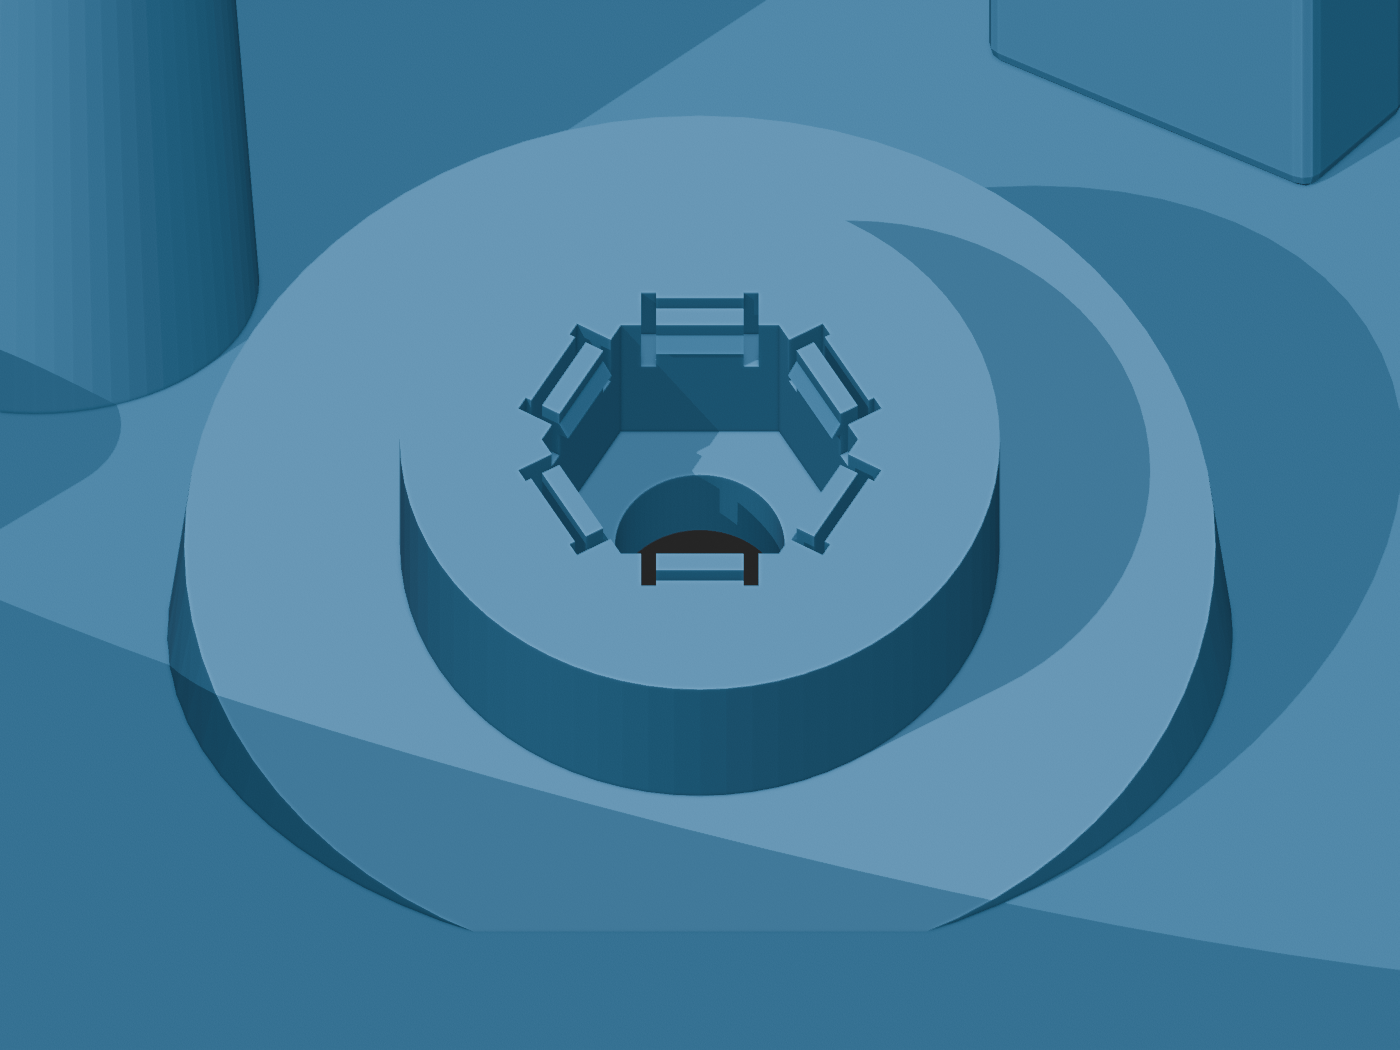
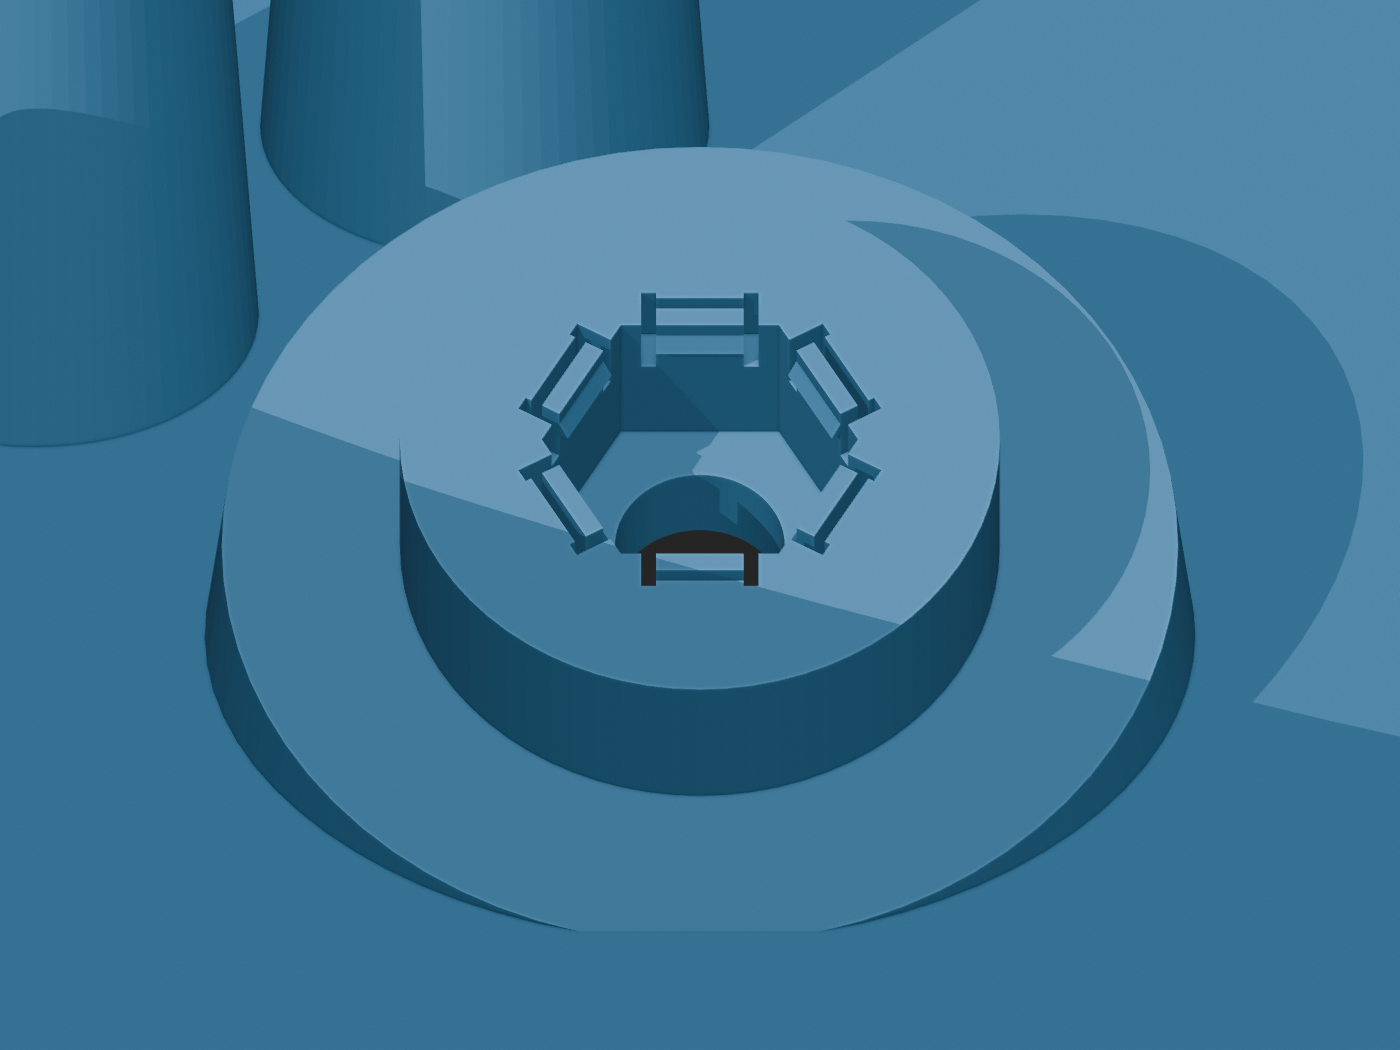
Center Hockeymom bottom mount

diff --git a/models3d/hockeymon-camera-case/hockeymom_cam_case_blender.py b/models3d/hockeymon-camera-case/hockeymom_cam_case_blender.py
@@ -1744,15 +1744,12 @@ FAN_GASKET_COLOR = (0.12, 0.12, 0.12, 1.0)
 # then catch its top face.  Measure the actual post, nut, and printer before
 # production; inch hardware varies by standard and coating.
 BOTTOM_MOUNT_HOLE_ENABLED = True
-# BOTTOM_MOUNT_HOLE_FRONT_TO_BACK_FRACTION = 0.50
-BOTTOM_MOUNT_HOLE_FRONT_TO_BACK_FRACTION = 0.55
-BOTTOM_MOUNT_HOLE_LATERAL_TARGET = 0.0
+BOTTOM_MOUNT_HOLE_FRONT_TO_BACK_FRACTION = 0.50
+# The mounting axis must remain on the exact left/right centerline.  Collision
+# avoidance may move it fore/aft, but never laterally.
 BOTTOM_MOUNT_HOLE_DIAMETER = 6.8
 BOTTOM_MOUNT_HOLE_EDGE_CLEARANCE = 3.0
 BOTTOM_MOUNT_HOLE_KEEP_OUT_CLEARANCE = 2.0
-BOTTOM_MOUNT_HOLE_AUTO_LATERAL = True
-BOTTOM_MOUNT_HOLE_SEARCH_RANGE = 80.0
-BOTTOM_MOUNT_HOLE_SEARCH_STEP = 2.0
 # The preferred fraction remains authoritative when it fits.  When the camera
 # envelopes occupy that whole cross-section, this optional search chooses the
 # closest safe fore/aft station and prints the resolved fraction.
@@ -1766,7 +1763,7 @@ BOTTOM_MOUNT_POST_DIAMETER = 31.75
 BOTTOM_MOUNT_POST_RECESS_DIAMETER_CLEARANCE = 0.5
 BOTTOM_MOUNT_POST_SEAT_EDGE_MARGIN = 1.0
 BOTTOM_MOUNT_RECESSED_SEAT_BACKING_THICKNESS = 4.0
-BOTTOM_MOUNT_RECESSED_SUPPORT_WALL_THICKNESS = 4.5
+BOTTOM_MOUNT_RECESSED_SUPPORT_WALL_THICKNESS = 3.0
 BOTTOM_MOUNT_NUT_HOLDER_ENABLED = True
 BOTTOM_MOUNT_NUT_THREAD_DIAMETER = 6.35
 BOTTOM_MOUNT_NUT_ACROSS_FLATS = 11.11
@@ -4547,8 +4544,6 @@ def validate_config() -> None:
         "BOTTOM_MOUNT_HOLE_KEEP_OUT_CLEARANCE": (
             BOTTOM_MOUNT_HOLE_KEEP_OUT_CLEARANCE
         ),
-        "BOTTOM_MOUNT_HOLE_SEARCH_RANGE": BOTTOM_MOUNT_HOLE_SEARCH_RANGE,
-        "BOTTOM_MOUNT_HOLE_SEARCH_STEP": BOTTOM_MOUNT_HOLE_SEARCH_STEP,
         "BOTTOM_MOUNT_HOLE_FRACTION_SEARCH_RANGE": (
             BOTTOM_MOUNT_HOLE_FRACTION_SEARCH_RANGE
         ),
@@ -15086,17 +15081,6 @@ def resolve_bottom_mount_hole_position(
     all_bracket_posts = [
         position for pair in bracket_position_pairs for position in pair
     ]
-    steps = int(
-        math.ceil(
-            BOTTOM_MOUNT_HOLE_SEARCH_RANGE
-            / BOTTOM_MOUNT_HOLE_SEARCH_STEP
-        )
-    )
-    offsets = [index * BOTTOM_MOUNT_HOLE_SEARCH_STEP for index in range(-steps, steps + 1)]
-    offsets.sort(key=lambda value: (abs(value), value))
-    if not BOTTOM_MOUNT_HOLE_AUTO_LATERAL:
-        offsets = [0.0]
-
     fraction_offsets = [0.0]
     if BOTTOM_MOUNT_HOLE_AUTO_FRONT_TO_BACK:
         fraction_steps = int(
@@ -15121,60 +15105,61 @@ def resolve_bottom_mount_hole_position(
 
     for fraction in fractions:
         x = front_x + fraction * (rear_x - front_x)
-        for offset in offsets:
-            position = (x, BOTTOM_MOUNT_HOLE_LATERAL_TARGET + offset)
-            if not point_in_polygon(position, bottom_loop):
-                continue
-            if polygon_boundary_distance(position, bottom_loop) < (
-                feature_radius + BOTTOM_MOUNT_HOLE_EDGE_CLEARANCE
-            ):
-                continue
-            camera_clearance = (
-                feature_radius + BOTTOM_MOUNT_HOLE_KEEP_OUT_CLEARANCE
+        # Left/right centering is a mount invariant, not an auto-placement
+        # preference.  Only the front/back coordinate may be searched.
+        position = (x, 0.0)
+        if not point_in_polygon(position, bottom_loop):
+            continue
+        if polygon_boundary_distance(position, bottom_loop) < (
+            feature_radius + BOTTOM_MOUNT_HOLE_EDGE_CLEARANCE
+        ):
+            continue
+        camera_clearance = (
+            feature_radius + BOTTOM_MOUNT_HOLE_KEEP_OUT_CLEARANCE
+        )
+        if any(
+            point_inside_camera_keepout(position, camera, camera_clearance)
+            for camera in cameras
+        ):
+            continue
+        if any(
+            circular_feature_intersects_camera_installation_sweep(
+                position,
+                camera,
+                feature_radius,
+                BOTTOM_MOUNT_HOLE_KEEP_OUT_CLEARANCE,
             )
-            if any(
-                point_inside_camera_keepout(position, camera, camera_clearance)
-                for camera in cameras
-            ):
-                continue
-            if any(
-                circular_feature_intersects_camera_installation_sweep(
-                    position,
-                    camera,
-                    feature_radius,
-                    BOTTOM_MOUNT_HOLE_KEEP_OUT_CLEARANCE,
-                )
-                for camera in cameras
-            ):
-                continue
-            if any(
-                math.dist(position, post) < (
-                    feature_radius
-                    + FASTENER_POST_DIAMETER / 2.0
-                    + BOTTOM_MOUNT_HOLE_KEEP_OUT_CLEARANCE
-                )
-                for post in lid_post_positions
-            ):
-                continue
-            if any(
-                math.dist(position, post) < (
-                    feature_radius
-                    + CAMERA_BRACKET_POST_BASE_DIAMETER / 2.0
-                    + BOTTOM_MOUNT_HOLE_KEEP_OUT_CLEARANCE
-                )
-                for post in all_bracket_posts
-            ):
-                continue
-            print(
-                "BOTTOM_MOUNT_HOLE_POSITION "
-                f"requested_fraction="
-                f"{BOTTOM_MOUNT_HOLE_FRONT_TO_BACK_FRACTION:.3f} "
-                f"resolved_fraction={fraction:.3f} "
-                f"xy=({position[0]:.2f}, {position[1]:.2f}) "
-                f"feature_radius={feature_radius:.2f} "
-                f"hole_radius={hole_radius:.2f}"
+            for camera in cameras
+        ):
+            continue
+        if any(
+            math.dist(position, post) < (
+                feature_radius
+                + FASTENER_POST_DIAMETER / 2.0
+                + BOTTOM_MOUNT_HOLE_KEEP_OUT_CLEARANCE
             )
-            return position
+            for post in lid_post_positions
+        ):
+            continue
+        if any(
+            math.dist(position, post) < (
+                feature_radius
+                + CAMERA_BRACKET_POST_BASE_DIAMETER / 2.0
+                + BOTTOM_MOUNT_HOLE_KEEP_OUT_CLEARANCE
+            )
+            for post in all_bracket_posts
+        ):
+            continue
+        print(
+            "BOTTOM_MOUNT_HOLE_POSITION "
+            f"requested_fraction="
+            f"{BOTTOM_MOUNT_HOLE_FRONT_TO_BACK_FRACTION:.3f} "
+            f"resolved_fraction={fraction:.3f} "
+            f"xy=({position[0]:.2f}, {position[1]:.2f}) "
+            f"feature_radius={feature_radius:.2f} "
+            f"hole_radius={hole_radius:.2f}"
+        )
+        return position
     raise ValueError(
         "No bottom mounting-hole location satisfies the configured "
         "fraction search and camera/post/wall keepouts"
@@ -32942,42 +32927,40 @@ def validate_final_bottom_mount_nut_holder(base, position):
                     point_inside_closed_bvh(record[0], record[1] @ point)
                 )
 
-        support_axial_fractions = (0.15, 0.40, 0.65, 0.90)
+        support_axial_fractions = (0.25, 0.50, 0.75, 0.90, 0.97)
         support_ring_sample_count = 36
-        support_sample_count = (
-            len(support_axial_fractions) * support_ring_sample_count
-        )
+        support_sample_count = 0
         support_solid_samples = 0
-        support_floor_radius = bottom_mount_recess_support_floor_radius()
-        support_top_radius = bottom_mount_recess_support_radius()
         support_top_axis = bottom_mount_recess_support_top_axis()
-        bottom_center = Vector((position[0], position[1], 0.0))
-        top_center = Vector(
-            bottom_mount_frame_point(position, 0.0, 0.0, support_top_axis)
+        support_probe_radius = (
+            bottom_mount_post_access_radius()
+            + BOTTOM_MOUNT_RECESSED_SUPPORT_WALL_THICKNESS / 2.0
         )
-        for index in range(support_ring_sample_count):
-            angle = 2.0 * math.pi * index / support_ring_sample_count
-            bottom_outer = Vector(
-                (
-                    position[0] + support_floor_radius * math.cos(angle),
-                    position[1] + support_floor_radius * math.sin(angle),
-                    0.0,
+        for axial_fraction in support_axial_fractions:
+            axial = support_top_axis * axial_fraction
+            for index in range(support_ring_sample_count):
+                # Sample between radial mesh edges, through the middle of the
+                # configured wall, in planes normal to the tilted mount axis.
+                angle = (
+                    2.0
+                    * math.pi
+                    * (index + 0.25)
+                    / support_ring_sample_count
                 )
-            )
-            top_outer = Vector(
-                bottom_mount_frame_point(
-                    position,
-                    support_top_radius * math.cos(angle),
-                    support_top_radius * math.sin(angle),
-                    support_top_axis,
+                point = Vector(
+                    bottom_mount_frame_point(
+                        position,
+                        support_probe_radius * math.cos(angle),
+                        support_probe_radius * math.sin(angle),
+                        axial,
+                    )
                 )
-            )
-            for axial_fraction in support_axial_fractions:
-                local_center = bottom_center.lerp(top_center, axial_fraction)
-                local_outer = bottom_outer.lerp(top_outer, axial_fraction)
-                inward = local_center - local_outer
-                inward.normalize()
-                point = local_outer + inward
+                # Below this height, the main floor—not the raised plinth—is
+                # the expected load path and is already covered by min-Z and
+                # manifold validation.
+                if point.z <= BOTTOM_THICKNESS + 0.10:
+                    continue
+                support_sample_count += 1
                 support_solid_samples += int(
                     point_inside_closed_bvh(record[0], record[1] @ point)
                 )

diff --git a/models3d/hockeymon-camera-case/generate_hockeymom_cam_case_dimension_pdf.py b/models3d/hockeymon-camera-case/generate_hockeymom_cam_case_dimension_pdf.py
@@ -3288,17 +3288,17 @@ def page_acoustic(pdf):
 
 def page_nut(pdf):
     fig=new_sheet(13,"RECESSED ANGLED BOTTOM CAPTIVE-NUT MOUNT",
-                  "The full pole enters the flat case bottom; a continuous 4.5 mm floor-rooted plinth supports the tilted backing roof and captive-nut boss")
+                  "The full pole enters the flat case bottom; a continuous 3 mm floor-rooted plinth supports the tilted backing roof and captive-nut boss")
     ax=panel(fig,[0.065,0.43,0.47,0.44],"AUTO-RESOLVED FLOOR LOCATION","BOTTOM / PLAN")
     depth=float(val("BODY_DEPTH",233.661)); width=float(val("BODY_WIDTH",180)); frac=float(val("BOTTOM_MOUNT_HOLE_FRONT_TO_BACK_FRACTION",0.5))
     outline=soft_triangle(depth,width,0.75,0.55)
     ax.add_patch(Polygon(outline,closed=True,facecolor="#edf4f7",edgecolor=BLUE,lw=1.3))
-    x=-depth/2+frac*depth; y=float(val("BOTTOM_MOUNT_HOLE_LATERAL_TARGET",0))
+    x=-depth/2+frac*depth; y=0.0
     od=float(val("BOTTOM_MOUNT_NUT_HOLDER_OUTER_DIAMETER",24)); hole=float(val("BOTTOM_MOUNT_HOLE_DIAMETER",6.8))
     tilt=float(val("BOTTOM_MOUNT_FORWARD_TILT_DEG",20)); tilt_rad=math.radians(tilt)
     post_d=float(val("BOTTOM_MOUNT_POST_DIAMETER",31.75)); post_clearance=float(val("BOTTOM_MOUNT_POST_RECESS_DIAMETER_CLEARANCE",0.5)); seat_margin=float(val("BOTTOM_MOUNT_POST_SEAT_EDGE_MARGIN",1.0)); seat_r=post_d/2+seat_margin
     access_r=(post_d+post_clearance)/2; seat_axis=seat_r*math.tan(abs(tilt_rad)); seat_center_x=x+seat_axis*math.sin(tilt_rad)
-    backing=float(val("BOTTOM_MOUNT_RECESSED_SEAT_BACKING_THICKNESS",4.0)); support_wall=float(val("BOTTOM_MOUNT_RECESSED_SUPPORT_WALL_THICKNESS",4.5)); support_r=access_r+support_wall; support_floor_r=access_r/math.cos(abs(tilt_rad))+support_wall; support_top_axis=seat_axis+backing; support_center_x=x+support_top_axis*math.sin(tilt_rad)
+    backing=float(val("BOTTOM_MOUNT_RECESSED_SEAT_BACKING_THICKNESS",4.0)); support_wall=float(val("BOTTOM_MOUNT_RECESSED_SUPPORT_WALL_THICKNESS",3.0)); support_r=access_r+support_wall; support_floor_r=access_r/math.cos(abs(tilt_rad))+support_wall; support_top_axis=seat_axis+backing; support_center_x=x+support_top_axis*math.sin(tilt_rad)
     ax.add_patch(Circle((x,y),support_floor_r,facecolor="#dcebdd",edgecolor=GREEN,lw=1.0))
     support_plan=[(support_center_x+support_r*math.cos(tilt_rad)*math.cos(a),y+support_r*math.sin(a)) for a in [2*math.pi*i/72 for i in range(72)]]
     ax.add_patch(Polygon(support_plan,closed=True,facecolor="#ccebd7",edgecolor=GREEN,lw=1.3))
@@ -3310,7 +3310,7 @@ def page_nut(pdf):
     ax.add_patch(Circle((x,y),hole/2,facecolor=WHITE,edgecolor=INK,lw=1.0))
     centerline(ax,(-depth/2-8,0),(depth/2+8,0))
     dim_h(ax,-depth/2,x,-width/2-18,-width/2,"BOTTOM_MOUNT_HOLE_FRONT_TO_BACK_FRACTION")
-    dim_v(ax,0,y+0.01,x+25,x,"BOTTOM_MOUNT_HOLE_LATERAL_TARGET")
+    leader(ax,(x,y),(x+25,y+28),"Y = 0: exact left/right centerline",BLUE,"left")
     leader(ax,(seat_center_x+seat_r*math.cos(tilt_rad),y),(132,48),
            "BOTTOM_MOUNT_POST_DIAMETER\n+ 2 x BOTTOM_MOUNT_POST_SEAT_EDGE_MARGIN",GREEN,"right")
     leader(ax,(x+hole/2,y),(132,18),
@@ -3344,14 +3344,14 @@ def page_nut(pdf):
     ax2.add_patch(Arc((0,0),18,18,theta1=90-abs(tilt),theta2=90,edgecolor=ORANGE,lw=1.1))
     leader(ax2,p(0,holder_top),(25,27),"BOTTOM_MOUNT_FORWARD_TILT_DEG",ORANGE,"right")
     leader(ax2,seat_left,(-39,-13),"recessed seat OD = post diameter + 2 x edge margin",GREEN,"right")
-    leader(ax2,support_right,(29,6),"continuous floor-rooted 4.5 mm support wall",GREEN,"right")
+    leader(ax2,support_right,(29,6),"continuous floor-rooted 3 mm support wall",GREEN,"right")
     leader(ax2,p(nut_af/2,nut_seat+nut_t/2),(27,17),"press-fit nut + six snap lips",ORANGE,"right")
     leader(ax2,p(0,seat_axis-12),(-39,-34),"nominal 1.25-inch vertical post",GRAY,"right")
     setup(ax2,-43,45,-43,33)
 
     note_box(fig,[0.065,0.18,0.285,0.17],"ANGLE + PLACEMENT",
-             ["BOTTOM_MOUNT_HOLE_AUTO_LATERAL enables lateral search",
-              "BOTTOM_MOUNT_HOLE_AUTO_FRONT_TO_BACK enables station search",
+             ["Mount axis is fixed on the exact left/right centerline",
+              "BOTTOM_MOUNT_HOLE_AUTO_FRONT_TO_BACK enables fore/aft search",
               f"forward case tilt on vertical post = {deg('BOTTOM_MOUNT_FORWARD_TILT_DEG',20)}",
               f"edge clearance = {mm('BOTTOM_MOUNT_HOLE_EDGE_CLEARANCE',3)}",
               "The exterior bottom remains on the flat Z=0 print plane."],BLUE)
@@ -3364,7 +3364,7 @@ def page_nut(pdf):
     note_box(fig,[0.655,0.18,0.28,0.17],"CAPTIVE NUT + RETENTION",
              [f"pocket interference = {mm('BOTTOM_MOUNT_NUT_PRESS_INTERFERENCE',0.15,2)}",
               f"recess backing = {mm('BOTTOM_MOUNT_RECESSED_SEAT_BACKING_THICKNESS',4)}",
-              f"support wall = {mm('BOTTOM_MOUNT_RECESSED_SUPPORT_WALL_THICKNESS',4.5)}",
+              f"support wall = {mm('BOTTOM_MOUNT_RECESSED_SUPPORT_WALL_THICKNESS',3.0)}",
               f"minimum holder wall = {mm('BOTTOM_MOUNT_NUT_HOLDER_MIN_WALL',4)}",
               f"retention clearance = {mm('BOTTOM_MOUNT_NUT_SNAP_LIP_RETENTION_CLEARANCE',0.35,2)}"],ORANGE)
     pdf.savefig(fig); plt.close(fig)
